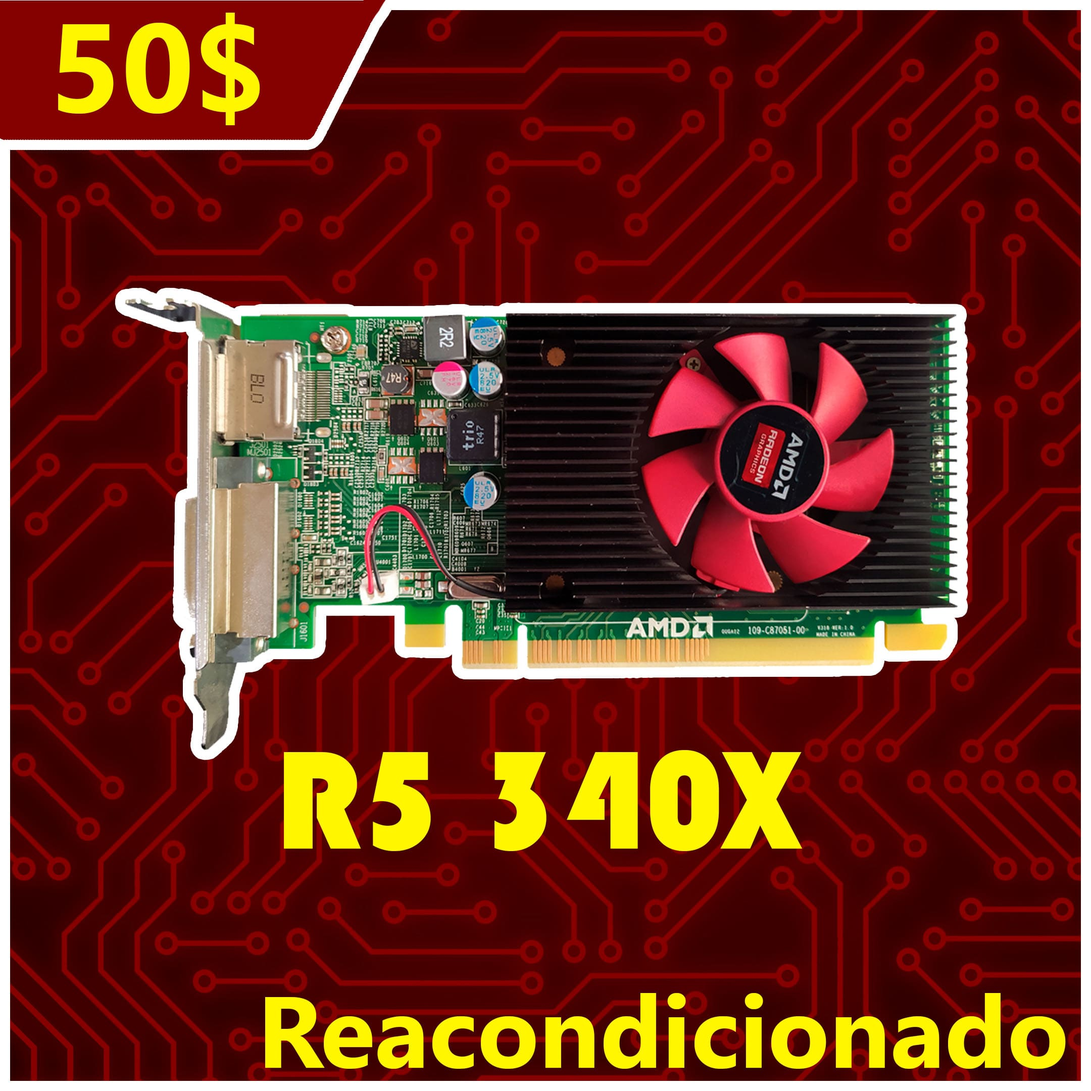
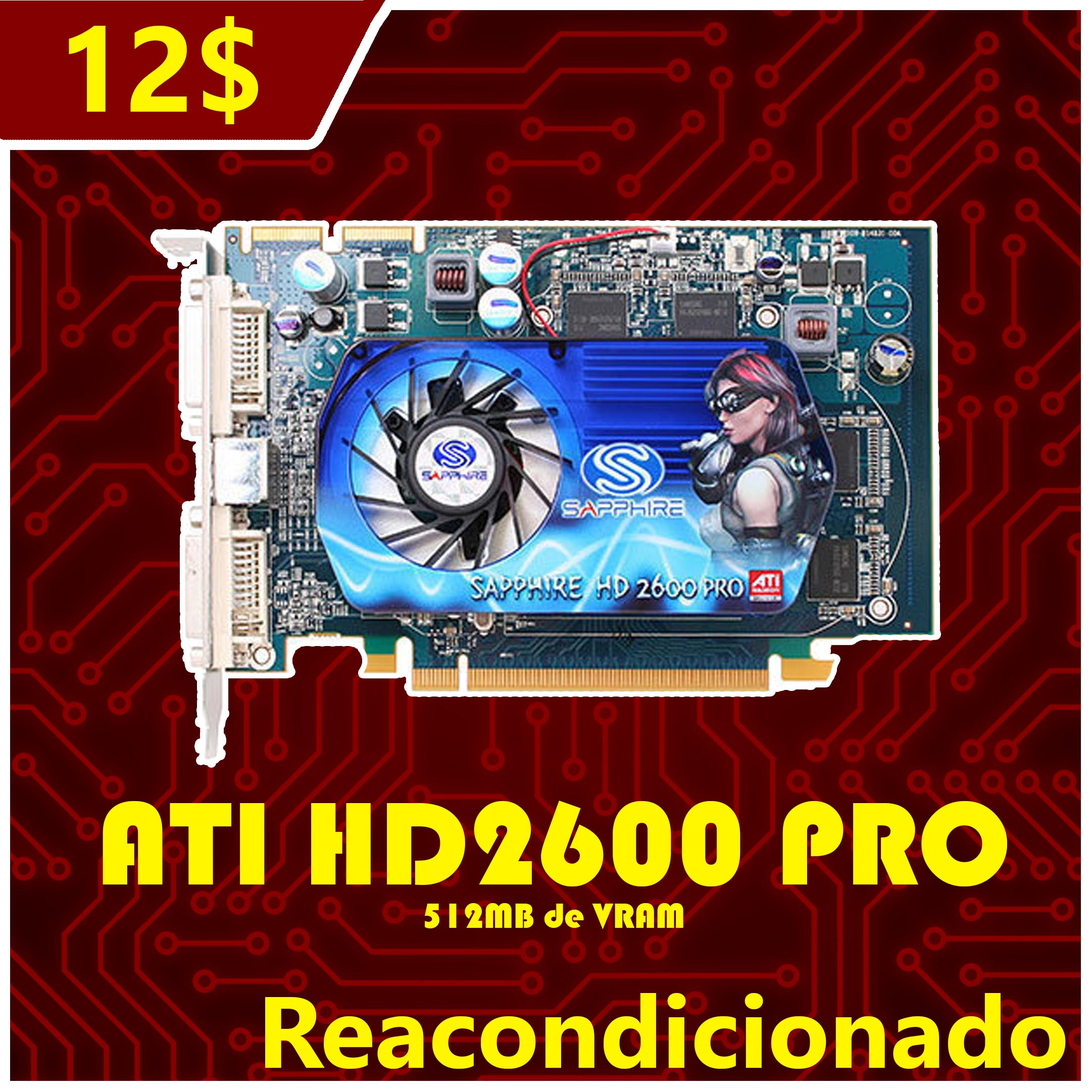
Add files via upload

diff --git a/tienda.html b/tienda.html
@@ -42,7 +42,18 @@
       <div class="row">
         </div>
 
-        
+        <div class="col-md-3">
+          <a class="portfolio-item" style="background-image: url(img/portfolio-2.11.jpg);" href="https://www.facebook.com/marketplace/item/4824779864293334/">
+            <div class="details">
+              <h4>Combo FX + MSI (200$)</h4>
+              <span>FX-8320 @3.5GHz 8-Core</span>
+              <span>MSI 970 Gaming</span>
+              <span>8GB RAM DDR3 1333MHz</span>
+              <span>Incluye cajas y accesorios</span>
+            </div>
+          </a>
+        </div>
+
         <div class="col-md-3">
           <a class="portfolio-item" style="background-image: url(img/portfolio-2.1.jpg);" href="https://wa.me/p/4929994107099490/584245022292">
             <div class="details">
@@ -144,10 +155,10 @@
         <div class="col-md-3">
           <a class="portfolio-item" style="background-image: url(img/portfolio-7.jpg);" href="https://wa.me/p/4625303017570443/584245022292">
             <div class="details">
-              <h4>R5 340X (50$)</h4>
-              <span>Marca OEM</span>
-              <span>2GB GDDR3</span>
-              <span>Mejor que GT 710</span>
+              <h4>HD 2600 PRO (50$)</h4>
+              <span>Marca ATI</span>
+              <span>512MB DDR2</span>
+              <span>GPU Básica</span>
               <span>Reacondicionada</span>
             </div>
           </a>
@@ -161,7 +172,7 @@
         </div>
 
         <div class="col-md-3">
-          <a class="portfolio-item" style="background-image: url(img/portfolio-8.1.jpg);" href="">
+          <a class="portfolio-item" style="background-image: url(img/portfolio-8.1.jpg);" href="https://www.facebook.com/marketplace/item/718823276118929/">
             <div class="details">
               <h4>Disipador Universal de CPU (10$)</h4>
               <span>TDP >80W</span>
@@ -173,7 +184,37 @@
         </div>
 
         <div class="col-md-3">
-          <a class="portfolio-item" style="background-image: url(img/portfolio-8.jpg);" href="">
+          <a class="portfolio-item" style="background-image: url(img/portfolio-8.2.jpg);" href="https://www.facebook.com/marketplace/item/342805484495129/">
+            <div class="details">
+              <h4>Disipador Stock Intel (7.5$)</h4>
+              <span>TDP >60W</span>
+              <span>SOLO para Socket LGA</span>
+            </div>
+          </a>
+        </div>
+
+        <div class="col-md-3">
+          <a class="portfolio-item" style="background-image: url(img/portfolio-8.3.jpg);" href="https://www.facebook.com/marketplace/item/533621171792537/">
+            <div class="details">
+              <h4>Disipador Stock Intel Cobre (12$)</h4>
+              <span>TDP >100W</span>
+              <span>SOLO para Socket LGA</span>
+            </div>
+          </a>
+        </div>
+
+        <div class="col-md-3">
+          <a class="portfolio-item" style="background-image: url(img/portfolio-8.4.jpg);" href="https://www.facebook.com/marketplace/item/754810535555712/">
+            <div class="details">
+              <h4>Soportes Disipador Stock Intel (2$)</h4>
+              <span>Precio por unidad</span>
+              <span>1 Pieza blanca + 1 negra</span>
+            </div>
+          </a>
+        </div>
+
+        <div class="col-md-3">
+          <a class="portfolio-item" style="background-image: url(img/portfolio-8.jpg);" href="https://www.facebook.com/marketplace/item/3308062369425807/">
             <div class="details">
               <h4>Ventilador (3$)</h4>
               <span>Genérico</span>
@@ -191,7 +232,7 @@
 
         <div class="row">
         <div class="col-md-3">
-          <a class="portfolio-item" style="background-image: url(img/portfolio-1.jpg);" href="">
+          <a class="portfolio-item" style="background-image: url(img/portfolio-1.jpg);" href="https://www.facebook.com/marketplace/item/571497364324706/">
             <div class="details">
               <h4>Case DELUX (25$)</h4>
               <span>Micro ATX</span>
